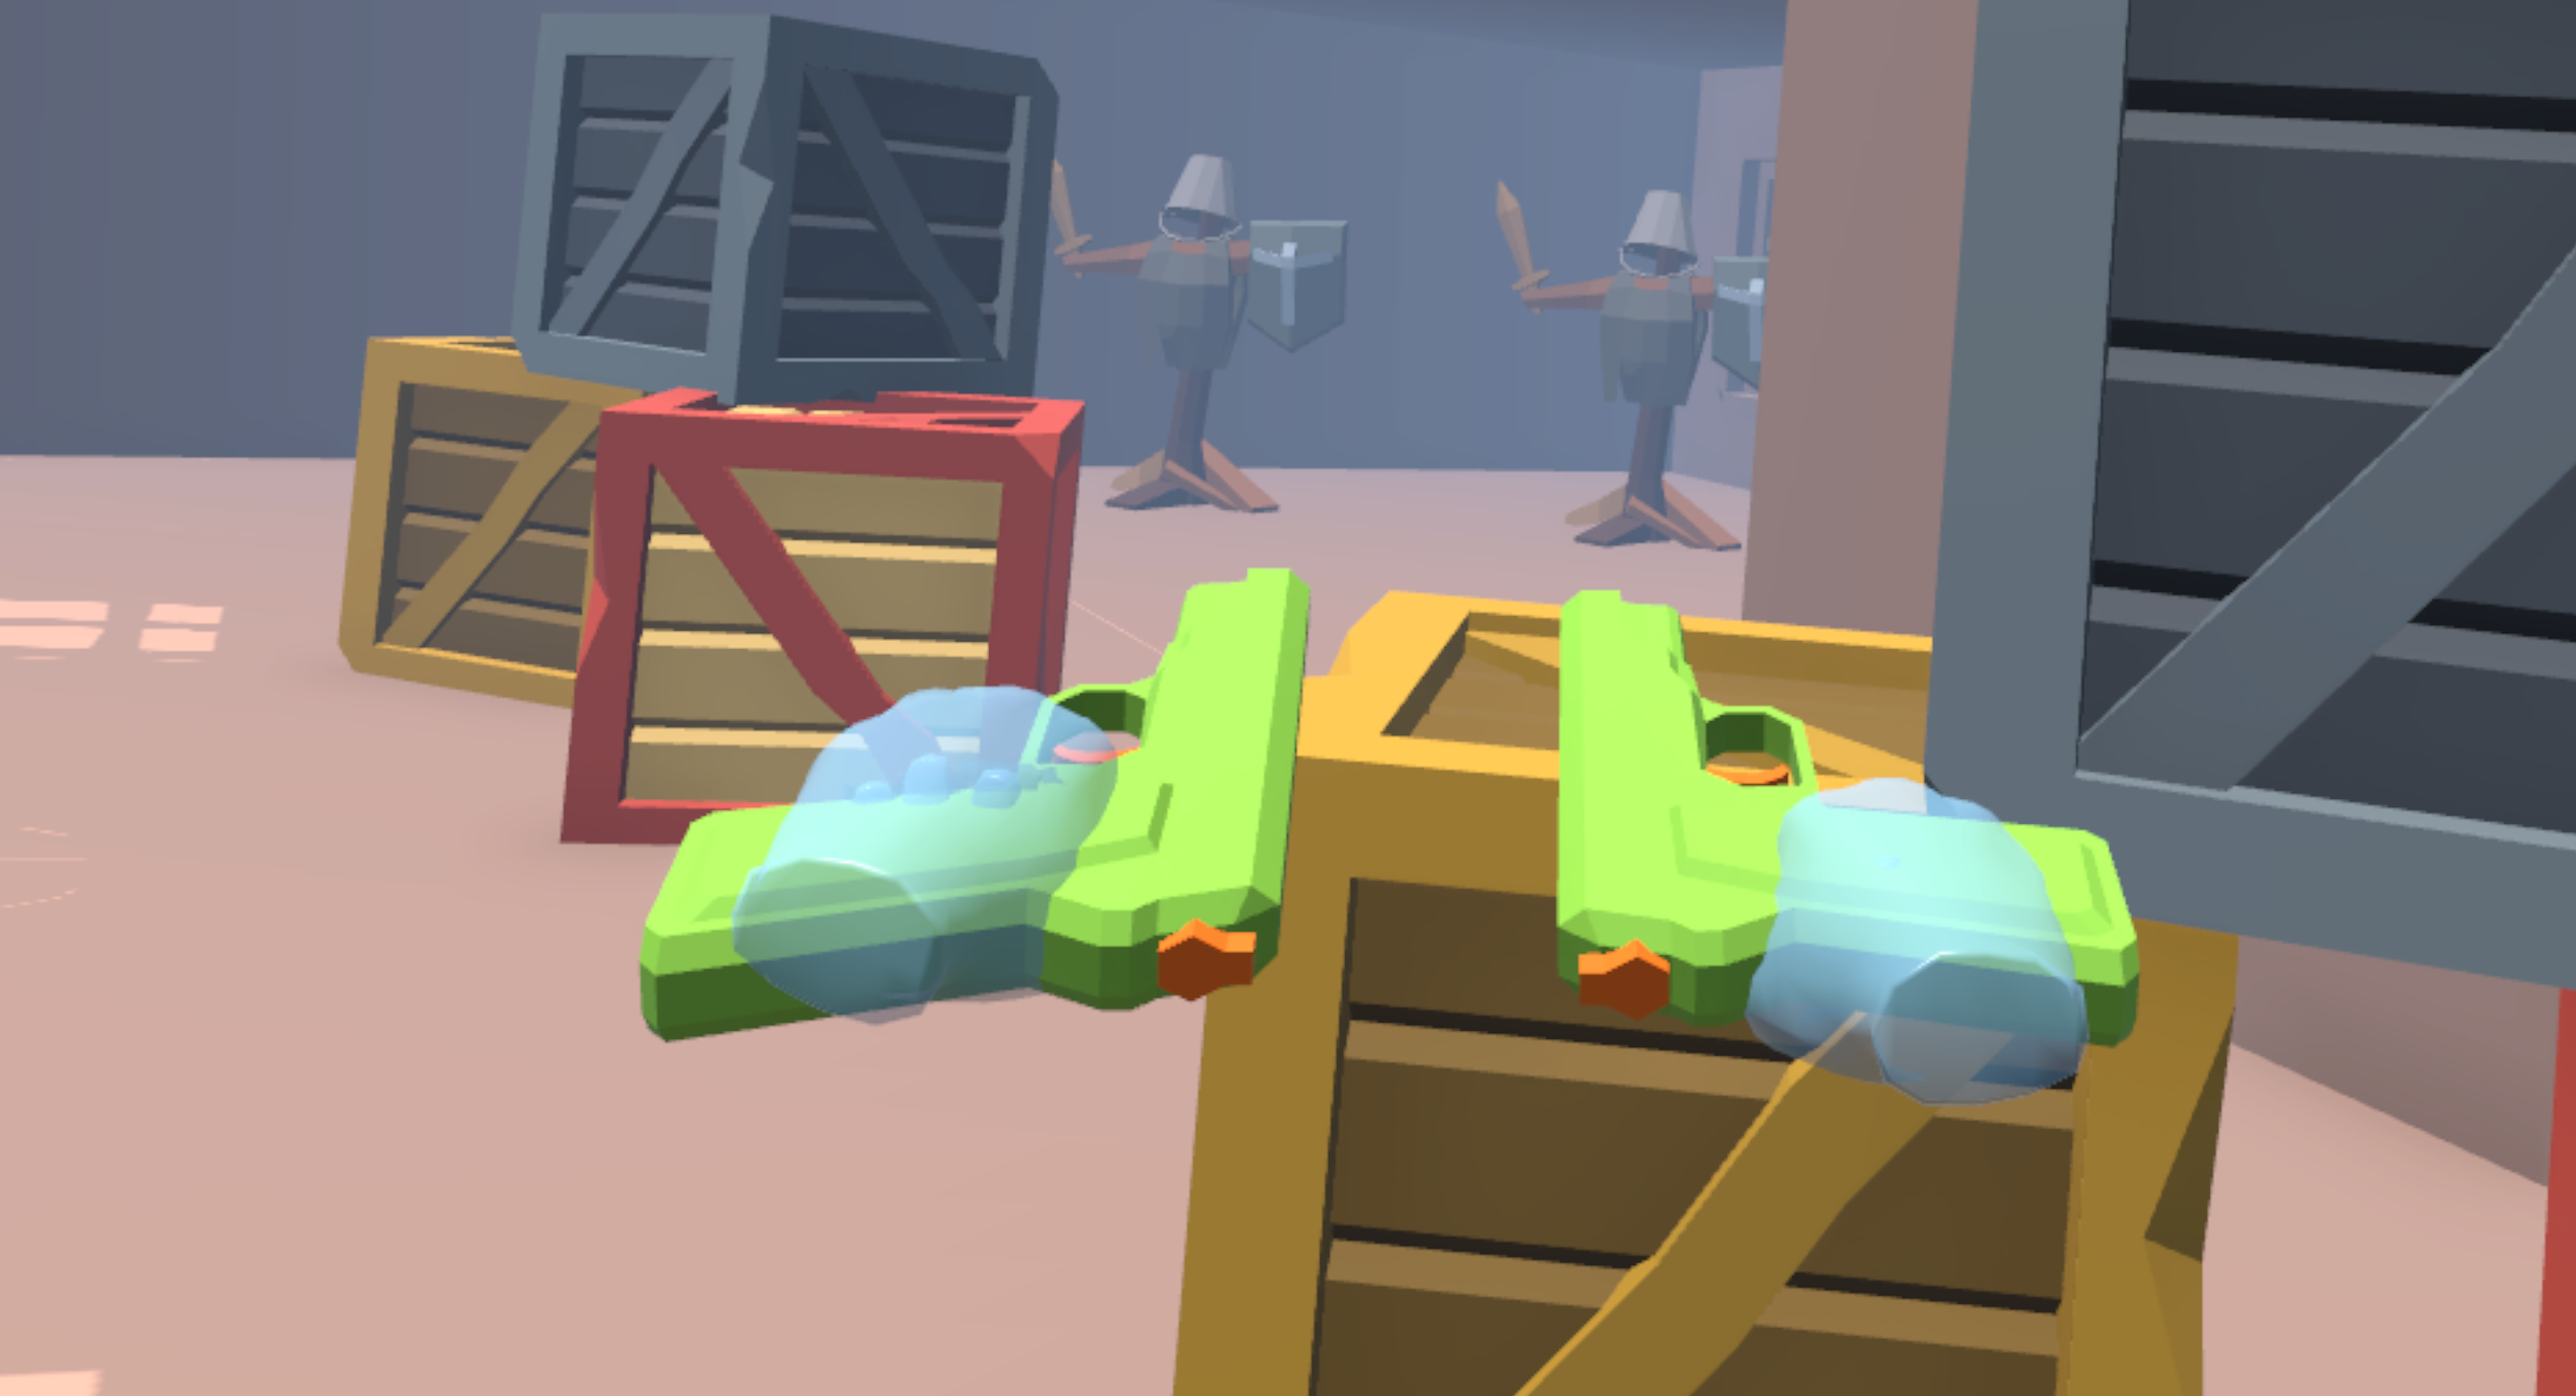
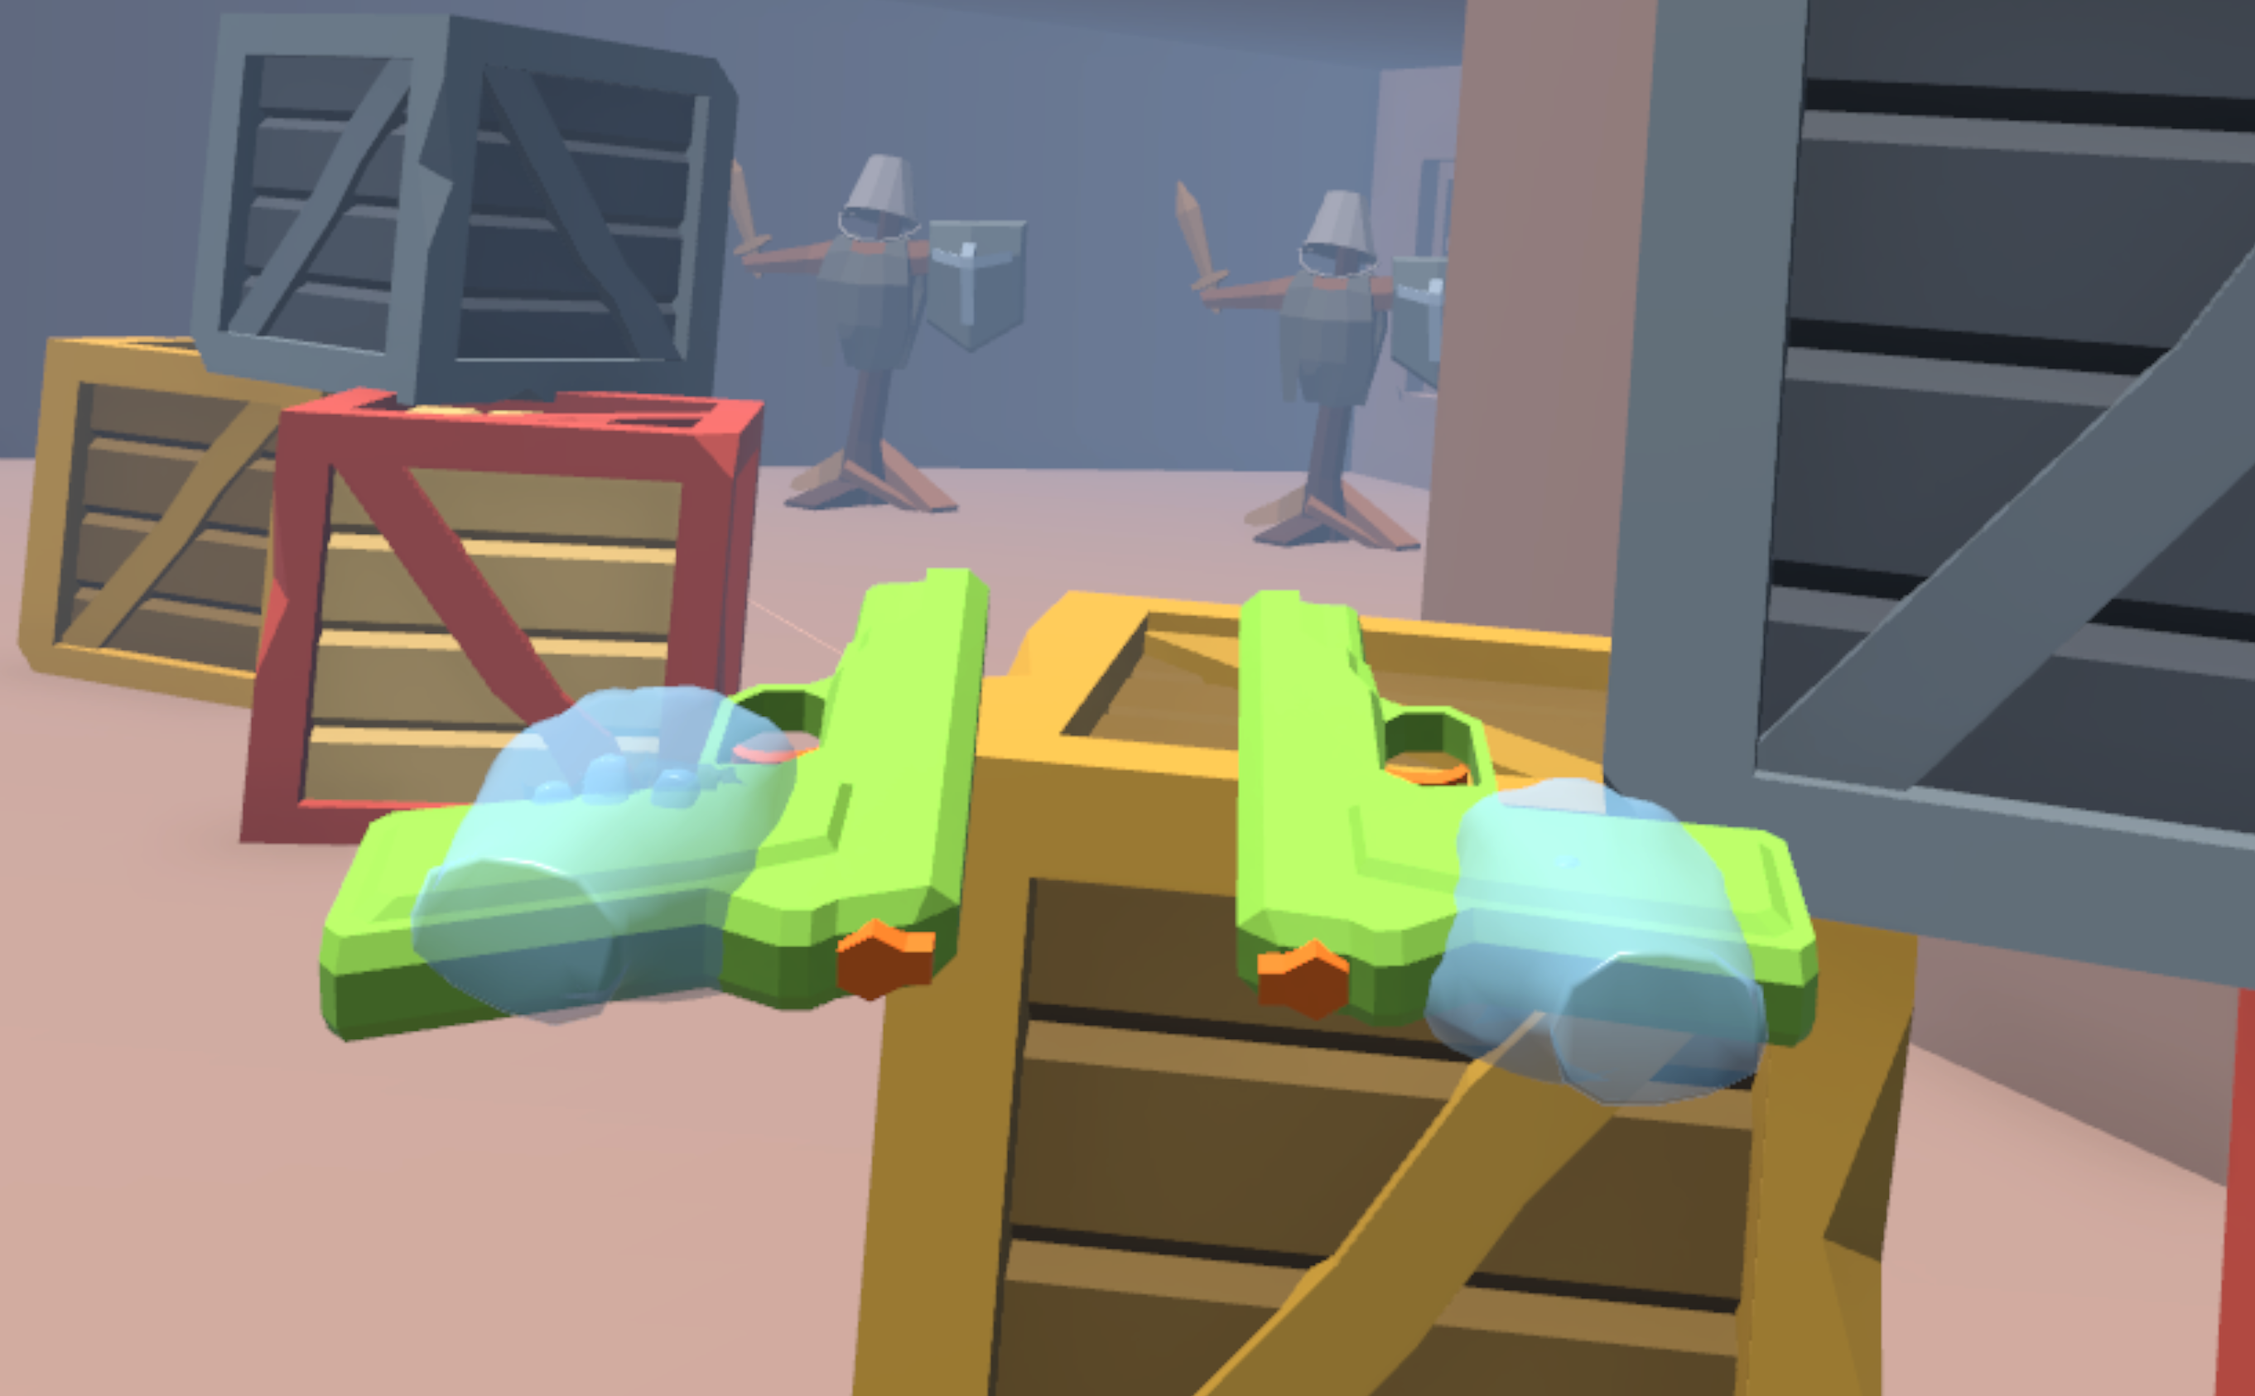
1.Added screenshots for all projects. 2. Updated captions for all screenshots in their respective json files. 3. Removed unnecessary images.

diff --git a/src/assets/imageImports.js b/src/assets/imageImports.js
@@ -2,17 +2,20 @@
 import vsg1 from "assets/img/projects/vsg-1.png";
 import vsg2 from "assets/img/projects/vsg-2.png";
 import vsg3 from "assets/img/projects/vsg-3.png";
-import vsg4 from "assets/img/projects/vsg-4.png";
 import vsg5 from "assets/img/projects/vsg-5.png";
 import vsg6 from "assets/img/projects/vsg-6.png";
 
-import aau1 from "assets/img/projects/aau-1.jpg";
-import aau2 from "assets/img/projects/aau-2.jpg";
-import aau3 from "assets/img/projects/aau-3.jpg";
+import aau1 from "assets/img/projects/aau-1.png";
+import aau2 from "assets/img/projects/aau-2.png";
+import aau3 from "assets/img/projects/aau-3.png";
+import aau4 from "assets/img/projects/aau-4.png";
+import aau5 from "assets/img/projects/aau-5.png";
 
-import fps1 from "assets/img/projects/fps-1.jpg";
-import fps2 from "assets/img/projects/fps-2.jpg";
-import fps3 from "assets/img/projects/fps-3.jpg";
+import fps1 from "assets/img/projects/fps-1.png";
+import fps2 from "assets/img/projects/fps-2.png";
+import fps3 from "assets/img/projects/fps-3.png";
+import fps4 from "assets/img/projects/fps-4.png";
+import fps5 from "assets/img/projects/fps-5.png";
 
 import fl1 from "assets/img/projects/fl-1.png";
 import fl2 from "assets/img/projects/fl-2.png";
@@ -21,45 +24,64 @@ import fl4 from "assets/img/projects/fl-4.png";
 import fl5 from "assets/img/projects/fl-5.png";
 import fl6 from "assets/img/projects/fl-6.png";
 
-import jed1 from "assets/img/projects/jed-1.jpg";
-import jed2 from "assets/img/projects/jed-2.jpg";
-import jed3 from "assets/img/projects/jed-3.jpg";
+import jed1 from "assets/img/projects/jed-1.png";
+import jed2 from "assets/img/projects/jed-2.png";
+import jed3 from "assets/img/projects/jed-3.png";
+import jed4 from "assets/img/projects/jed-4.png";
 
 import mg1 from "assets/img/projects/mg-1.png";
 import mg2 from "assets/img/projects/mg-2.png";
 import mg3 from "assets/img/projects/mg-3.png";
+import mg4 from "assets/img/projects/mg-4.png";
 
-import imt1 from "assets/img/projects/imt-1.jpg";
-import imt2 from "assets/img/projects/imt-2.jpg";
-import imt3 from "assets/img/projects/imt-3.jpg";
+import imt1 from "assets/img/projects/imt-1.png";
+import imt2 from "assets/img/projects/imt-2.png";
+import imt3 from "assets/img/projects/imt-3.png";
+import imt4 from "assets/img/projects/imt-4.png";
+import imt5 from "assets/img/projects/imt-5.png";
+import imt6 from "assets/img/projects/imt-6.png";
+import imt7 from "assets/img/projects/imt-7.png";
+import imt8 from "assets/img/projects/imt-8.png";
 
-import ta1 from "assets/img/projects/ta-1.jpg";
-import ta2 from "assets/img/projects/ta-2.jpg";
-import ta3 from "assets/img/projects/ta-3.jpg";
+import ta1 from "assets/img/projects/ta-1.png";
+import ta2 from "assets/img/projects/ta-2.png";
+import ta3 from "assets/img/projects/ta-3.png";
+import ta4 from "assets/img/projects/ta-4.png";
 
-import idv1 from "assets/img/projects/idv-1.jpg";
-import idv2 from "assets/img/projects/idv-2.jpg";
-import idv3 from "assets/img/projects/idv-3.jpg";
+import idv1 from "assets/img/projects/idv-1.png";
+import idv2 from "assets/img/projects/idv-2.png";
+import idv3 from "assets/img/projects/idv-3.png";
+import idv4 from "assets/img/projects/idv-4.png";
+import idv5 from "assets/img/projects/idv-5.png";
 
-import rp1 from "assets/img/projects/rp-1.jpg";
-import rp2 from "assets/img/projects/rp-2.jpg";
-import rp3 from "assets/img/projects/rp-3.jpg";
+import rp1 from "assets/img/projects/rp-1.png";
+import rp2 from "assets/img/projects/rp-2.png";
+import rp3 from "assets/img/projects/rp-3.png";
+import rp4 from "assets/img/projects/rp-4.png";
+import rp5 from "assets/img/projects/rp-5.png";
+import rp6 from "assets/img/projects/rp-6.png";
+import rp7 from "assets/img/projects/rp-7.png";
+import rp8 from "assets/img/projects/rp-8.png";
+import rp9 from "assets/img/projects/rp-9.png";
 
-import cs from "assets/img/coming-soon.jpg"
+import cs from "assets/img/coming-soon.png"
 
 export const images = {
   vsg1,
   vsg2,
   vsg3,
-  vsg4,
   vsg5,
   vsg6,
   aau1,
   aau2,
   aau3,
+  aau4,
+  aau5,
   fps1,
   fps2,
   fps3,
+  fps4,
+  fps5,
   fl1,
   fl2,
   fl3,
@@ -69,20 +91,36 @@ export const images = {
   jed1,
   jed2,
   jed3,
+  jed4,
   mg1,
   mg2,
   mg3,
+  mg4,
   imt1,
   imt2,
   imt3,
+  imt4,
+  imt5,
+  imt6,
+  imt7,
+  imt8,
   ta1,
   ta2,
   ta3,
+  ta4,
   idv1,
   idv2,
   idv3,
+  idv4,
+  idv5,
   rp1,
   rp2,
   rp3,
+  rp4,
+  rp5,
+  rp6,
+  rp7,
+  rp8,
+  rp9,
   cs
 };
